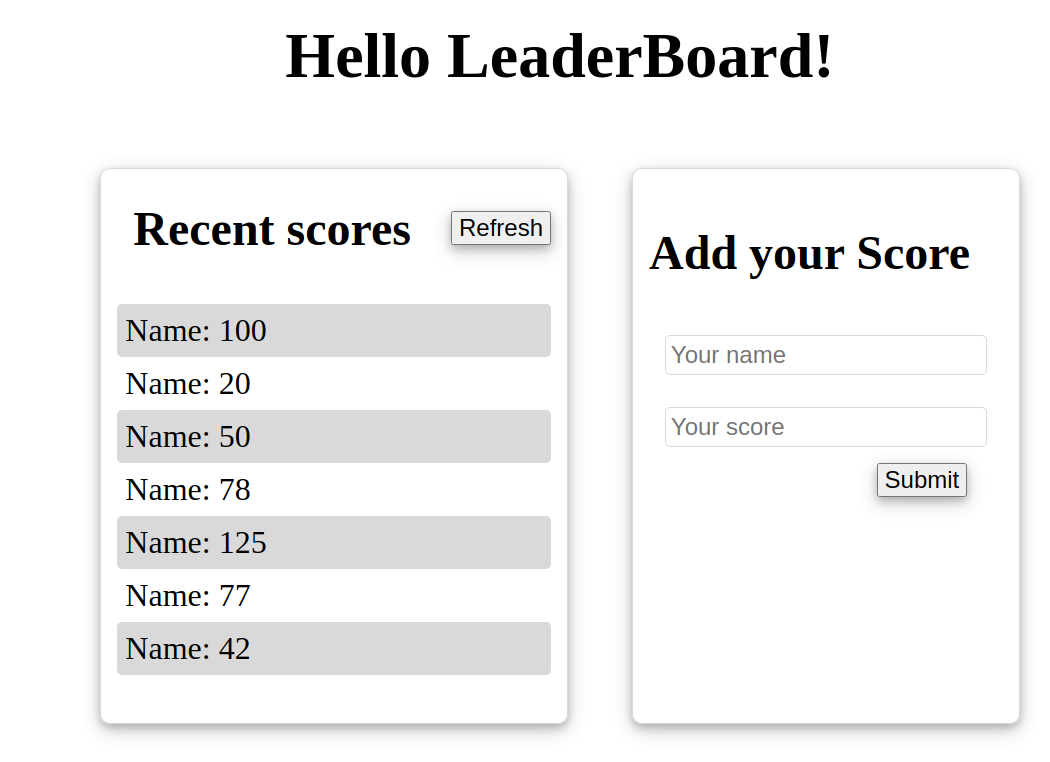
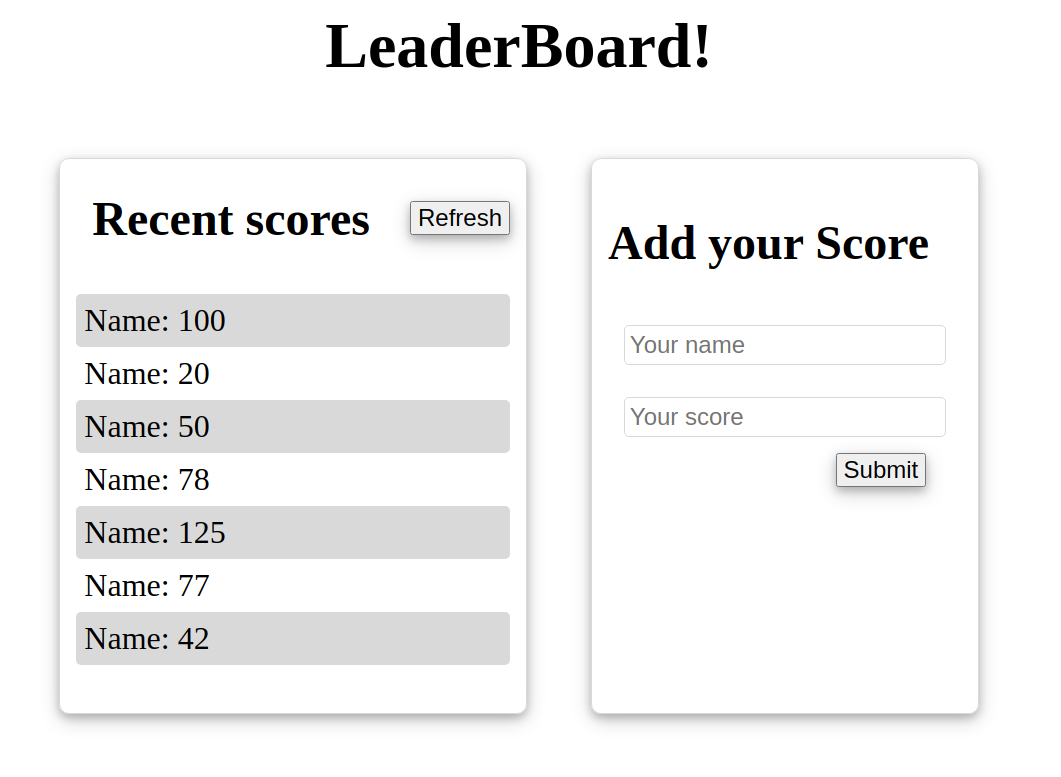
Fix linter errors and update readme image

Changed region(s): [[0.0305, 0.2113, 0.9752, 0.9659], [0.2743, 0.0302, 0.7924, 0.1207]]

diff --git a/dist/main.js b/dist/main.js
@@ -1,1 +1,1 @@
-(()=>{"use strict";var n,e,t,r,i,o,a,s,d,u,c,l,f,p,m={426:(n,e,t)=>{t.d(e,{Z:()=>o});var r=t(645),i=t.n(r)()((function(n){return n[1]}));i.push([n.id,"html {\n  font-size: 16px;\n}\n\nbody {\n  display: flex;\n  margin: 0 auto;\n  text-align: left;\n  font-size: 2rem;\n}\n\nmain,\nform {\n  display: flex;\n  flex-direction: column;\n  align-items: center;\n  justify-content: center;\n  align-content: space-around;\n  width: 80%;\n  height: auto;\n  margin: 0 auto;\n}\n\nh1 {\n  font-size: 4rem;\n  text-align: left;\n}\n\nh2 {\n  font-size: 3rem;\n}\n\n.main-container,\n.title {\n  display: flex;\n  flex-direction: row;\n  justify-content: space-around;\n  width: auto;\n  height: auto;\n  margin: 0 auto;\n}\n\n.title {\n  align-items: center;\n}\n\nul {\n  list-style: none;\n  padding-left: 0;\n  width: auto;\n  align-self: flex-start;\n}\n\nli {\n  padding: 0.5rem;\n  border-radius: 5px;\n}\n\nli:nth-child(odd) {\n  background: #d9d9d9;\n}\n\n.recent-scores,\n.add-your-score {\n  border: solid 1px #d9d9d9;\n  box-shadow: 0 4px 8px 0 rgb(0 0 0 / 20%), 0 6px 20px 0 rgb(0 0 0 / 19%);\n  border-radius: 10px;\n  padding: 1rem;\n  margin: 2rem;\n}\n\n.recent {\n  margin: 1rem;\n}\n\n.refresh-btn {\n  font-size: 1.5rem;\n  justify-self: center;\n  box-shadow: 0 4px 8px 0 rgb(0 0 0 / 20%), 0 6px 20px 0 rgb(0 0 0 / 19%);\n  margin-left: 1.5rem;\n}\n\n.btn {\n  font-size: 1.5rem;\n  align-self: flex-end;\n  box-shadow: 0 4px 8px 0 rgb(0 0 0 / 20%), 0 6px 20px 0 rgb(0 0 0 / 19%);\n}\n\ninput {\n  font-size: 1.5rem;\n  padding: 0.3rem;\n  border: solid 0.3px #d9d9d9;\n  border-radius: 5px;\n  margin: 1rem;\n}\n",""]);const o=i},645:n=>{n.exports=function(n){var e=[];return e.toString=function(){return this.map((function(e){var t=n(e);return e[2]?"@media ".concat(e[2]," {").concat(t,"}"):t})).join("")},e.i=function(n,t,r){"string"==typeof n&&(n=[[null,n,""]]);var i={};if(r)for(var o=0;o<this.length;o++){var a=this[o][0];null!=a&&(i[a]=!0)}for(var s=0;s<n.length;s++){var d=[].concat(n[s]);r&&i[d[0]]||(t&&(d[2]?d[2]="".concat(t," and ").concat(d[2]):d[2]=t),e.push(d))}},e}},379:n=>{var e=[];function t(n){for(var t=-1,r=0;r<e.length;r++)if(e[r].identifier===n){t=r;break}return t}function r(n,r){for(var o={},a=[],s=0;s<n.length;s++){var d=n[s],u=r.base?d[0]+r.base:d[0],c=o[u]||0,l="".concat(u," ").concat(c);o[u]=c+1;var f=t(l),p={css:d[1],media:d[2],sourceMap:d[3]};-1!==f?(e[f].references++,e[f].updater(p)):e.push({identifier:l,updater:i(p,r),references:1}),a.push(l)}return a}function i(n,e){var t=e.domAPI(e);return t.update(n),function(e){if(e){if(e.css===n.css&&e.media===n.media&&e.sourceMap===n.sourceMap)return;t.update(n=e)}else t.remove()}}n.exports=function(n,i){var o=r(n=n||[],i=i||{});return function(n){n=n||[];for(var a=0;a<o.length;a++){var s=t(o[a]);e[s].references--}for(var d=r(n,i),u=0;u<o.length;u++){var c=t(o[u]);0===e[c].references&&(e[c].updater(),e.splice(c,1))}o=d}}},569:n=>{var e={};n.exports=function(n,t){var r=function(n){if(void 0===e[n]){var t=document.querySelector(n);if(window.HTMLIFrameElement&&t instanceof window.HTMLIFrameElement)try{t=t.contentDocument.head}catch(n){t=null}e[n]=t}return e[n]}(n);if(!r)throw new Error("Couldn't find a style target. This probably means that the value for the 'insert' parameter is invalid.");r.appendChild(t)}},216:n=>{n.exports=function(n){var e=document.createElement("style");return n.setAttributes(e,n.attributes),n.insert(e),e}},565:(n,e,t)=>{n.exports=function(n){var e=t.nc;e&&n.setAttribute("nonce",e)}},795:n=>{n.exports=function(n){var e=n.insertStyleElement(n);return{update:function(t){!function(n,e,t){var r=t.css,i=t.media,o=t.sourceMap;i?n.setAttribute("media",i):n.removeAttribute("media"),o&&"undefined"!=typeof btoa&&(r+="\n/*# sourceMappingURL=data:application/json;base64,".concat(btoa(unescape(encodeURIComponent(JSON.stringify(o))))," */")),e.styleTagTransform(r,n)}(e,n,t)},remove:function(){!function(n){if(null===n.parentNode)return!1;n.parentNode.removeChild(n)}(e)}}}},589:n=>{n.exports=function(n,e){if(e.styleSheet)e.styleSheet.cssText=n;else{for(;e.firstChild;)e.removeChild(e.firstChild);e.appendChild(document.createTextNode(n))}}}},h={};function x(n){var e=h[n];if(void 0!==e)return e.exports;var t=h[n]={id:n,exports:{}};return m[n](t,t.exports,x),t.exports}x.n=n=>{var e=n&&n.__esModule?()=>n.default:()=>n;return x.d(e,{a:e}),e},x.d=(n,e)=>{for(var t in e)x.o(e,t)&&!x.o(n,t)&&Object.defineProperty(n,t,{enumerable:!0,get:e[t]})},x.o=(n,e)=>Object.prototype.hasOwnProperty.call(n,e),n=x(379),e=x.n(n),t=x(795),r=x.n(t),i=x(569),o=x.n(i),a=x(565),s=x.n(a),d=x(216),u=x.n(d),c=x(589),l=x.n(c),f=x(426),(p={}).styleTagTransform=l(),p.setAttributes=s(),p.insert=o().bind(null,"head"),p.domAPI=r(),p.insertStyleElement=u(),e()(f.Z,p),f.Z&&f.Z.locals&&f.Z.locals})();
+(()=>{"use strict";var n,e,t,r,i,o,a,s,d,u,c,l,f,p,m={426:(n,e,t)=>{t.d(e,{Z:()=>o});var r=t(645),i=t.n(r)()((function(n){return n[1]}));i.push([n.id,"html {\n  font-size: 16px;\n}\n\nbody {\n  display: flex;\n  margin: 0 auto;\n  text-align: left;\n  font-size: 2rem;\n}\n\nmain,\nform {\n  display: flex;\n  flex-direction: column;\n  align-items: center;\n  justify-content: center;\n  align-content: space-around;\n  width: 80%;\n  height: auto;\n  margin: 0 auto;\n}\n\nh1 {\n  font-size: 4rem;\n  text-align: left;\n}\n\nh2 {\n  font-size: 3rem;\n}\n\n.main-container,\n.title {\n  display: flex;\n  flex-direction: row;\n  justify-content: space-around;\n  text-align: left;\n  width: auto;\n  height: auto;\n  margin: 0 auto;\n}\n\n.title {\n  align-items: center;\n}\n\nul {\n  list-style: none;\n  padding-left: 0;\n  width: auto;\n  align-self: flex-start;\n}\n\nli {\n  padding: 0.5rem;\n  border-radius: 5px;\n}\n\nli:nth-child(odd) {\n  background: #d9d9d9;\n}\n\n.recent-scores,\n.add-your-score {\n  border: solid 1px #d9d9d9;\n  box-shadow: 0 4px 8px 0 rgb(0 0 0 / 20%), 0 6px 20px 0 rgb(0 0 0 / 19%);\n  border-radius: 10px;\n  padding: 1rem;\n  margin: 2rem;\n}\n\n.recent {\n  margin: 1rem;\n}\n\n.refresh-btn {\n  font-size: 1.5rem;\n  justify-self: center;\n  box-shadow: 0 4px 8px 0 rgb(0 0 0 / 20%), 0 6px 20px 0 rgb(0 0 0 / 19%);\n  margin-left: 1.5rem;\n}\n\n.btn {\n  font-size: 1.5rem;\n  align-self: flex-end;\n  box-shadow: 0 4px 8px 0 rgb(0 0 0 / 20%), 0 6px 20px 0 rgb(0 0 0 / 19%);\n}\n\ninput {\n  font-size: 1.5rem;\n  padding: 0.3rem;\n  border: solid 0.3px #d9d9d9;\n  border-radius: 5px;\n  margin: 1rem;\n}\n",""]);const o=i},645:n=>{n.exports=function(n){var e=[];return e.toString=function(){return this.map((function(e){var t=n(e);return e[2]?"@media ".concat(e[2]," {").concat(t,"}"):t})).join("")},e.i=function(n,t,r){"string"==typeof n&&(n=[[null,n,""]]);var i={};if(r)for(var o=0;o<this.length;o++){var a=this[o][0];null!=a&&(i[a]=!0)}for(var s=0;s<n.length;s++){var d=[].concat(n[s]);r&&i[d[0]]||(t&&(d[2]?d[2]="".concat(t," and ").concat(d[2]):d[2]=t),e.push(d))}},e}},379:n=>{var e=[];function t(n){for(var t=-1,r=0;r<e.length;r++)if(e[r].identifier===n){t=r;break}return t}function r(n,r){for(var o={},a=[],s=0;s<n.length;s++){var d=n[s],u=r.base?d[0]+r.base:d[0],c=o[u]||0,l="".concat(u," ").concat(c);o[u]=c+1;var f=t(l),p={css:d[1],media:d[2],sourceMap:d[3]};-1!==f?(e[f].references++,e[f].updater(p)):e.push({identifier:l,updater:i(p,r),references:1}),a.push(l)}return a}function i(n,e){var t=e.domAPI(e);return t.update(n),function(e){if(e){if(e.css===n.css&&e.media===n.media&&e.sourceMap===n.sourceMap)return;t.update(n=e)}else t.remove()}}n.exports=function(n,i){var o=r(n=n||[],i=i||{});return function(n){n=n||[];for(var a=0;a<o.length;a++){var s=t(o[a]);e[s].references--}for(var d=r(n,i),u=0;u<o.length;u++){var c=t(o[u]);0===e[c].references&&(e[c].updater(),e.splice(c,1))}o=d}}},569:n=>{var e={};n.exports=function(n,t){var r=function(n){if(void 0===e[n]){var t=document.querySelector(n);if(window.HTMLIFrameElement&&t instanceof window.HTMLIFrameElement)try{t=t.contentDocument.head}catch(n){t=null}e[n]=t}return e[n]}(n);if(!r)throw new Error("Couldn't find a style target. This probably means that the value for the 'insert' parameter is invalid.");r.appendChild(t)}},216:n=>{n.exports=function(n){var e=document.createElement("style");return n.setAttributes(e,n.attributes),n.insert(e),e}},565:(n,e,t)=>{n.exports=function(n){var e=t.nc;e&&n.setAttribute("nonce",e)}},795:n=>{n.exports=function(n){var e=n.insertStyleElement(n);return{update:function(t){!function(n,e,t){var r=t.css,i=t.media,o=t.sourceMap;i?n.setAttribute("media",i):n.removeAttribute("media"),o&&"undefined"!=typeof btoa&&(r+="\n/*# sourceMappingURL=data:application/json;base64,".concat(btoa(unescape(encodeURIComponent(JSON.stringify(o))))," */")),e.styleTagTransform(r,n)}(e,n,t)},remove:function(){!function(n){if(null===n.parentNode)return!1;n.parentNode.removeChild(n)}(e)}}}},589:n=>{n.exports=function(n,e){if(e.styleSheet)e.styleSheet.cssText=n;else{for(;e.firstChild;)e.removeChild(e.firstChild);e.appendChild(document.createTextNode(n))}}}},h={};function x(n){var e=h[n];if(void 0!==e)return e.exports;var t=h[n]={id:n,exports:{}};return m[n](t,t.exports,x),t.exports}x.n=n=>{var e=n&&n.__esModule?()=>n.default:()=>n;return x.d(e,{a:e}),e},x.d=(n,e)=>{for(var t in e)x.o(e,t)&&!x.o(n,t)&&Object.defineProperty(n,t,{enumerable:!0,get:e[t]})},x.o=(n,e)=>Object.prototype.hasOwnProperty.call(n,e),n=x(379),e=x.n(n),t=x(795),r=x.n(t),i=x(569),o=x.n(i),a=x(565),s=x.n(a),d=x(216),u=x.n(d),c=x(589),l=x.n(c),f=x(426),(p={}).styleTagTransform=l(),p.setAttributes=s(),p.insert=o().bind(null,"head"),p.domAPI=r(),p.insertStyleElement=u(),e()(f.Z,p),f.Z&&f.Z.locals&&f.Z.locals})();

diff --git a/dist/index.html b/dist/index.html
@@ -1,1 +1,1 @@
-<!doctype html><html lang="en"><head><meta charset="UTF-8"><meta http-equiv="X-UA-Compatible" content="IE=edge"><meta name="viewport" content="width=device-width,initial-scale=1"><title>LeaderBoard App</title><script defer="defer" src="main.js"></script></head><body><main class="content"><h1>Hello LeaderBoard!</h1><div class="main-container"><div class="recent-scores"><div class="title"><h2 class="recent">Recent scores</h2><button class="refresh-btn">Refresh</button></div><ul class="players"><li>Name: 100</li><li>Name: 20</li><li>Name: 50</li><li>Name: 78</li><li>Name: 125</li><li>Name: 77</li><li>Name: 42</li></ul></div><div class="add-your-score"><h2>Add your Score</h2><form action=""><input placeholder="Your name"> <input placeholder="Your score"> <button class="btn" type="submit">Submit</button></form></div></div></main></body></html>
+<!doctype html><html lang="en"><head><meta charset="UTF-8"><meta http-equiv="X-UA-Compatible" content="IE=edge"><meta name="viewport" content="width=device-width,initial-scale=1"><title>LeaderBoard App</title><script defer="defer" src="main.js"></script></head><body><main class="content"><h1>LeaderBoard!</h1><div class="main-container"><div class="recent-scores"><div class="title"><h2 class="recent">Recent scores</h2><button class="refresh-btn">Refresh</button></div><ul class="players"><li>Name: 100</li><li>Name: 20</li><li>Name: 50</li><li>Name: 78</li><li>Name: 125</li><li>Name: 77</li><li>Name: 42</li></ul></div><div class="add-your-score"><h2>Add your Score</h2><form action=""><input placeholder="Your name"> <input placeholder="Your score"> <button class="btn" type="submit">Submit</button></form></div></div></main></body></html>

diff --git a/src/style.css b/src/style.css
@@ -35,6 +35,7 @@ h2 {
   display: flex;
   flex-direction: row;
   justify-content: space-around;
+  text-align: left;
   width: auto;
   height: auto;
   margin: 0 auto;
